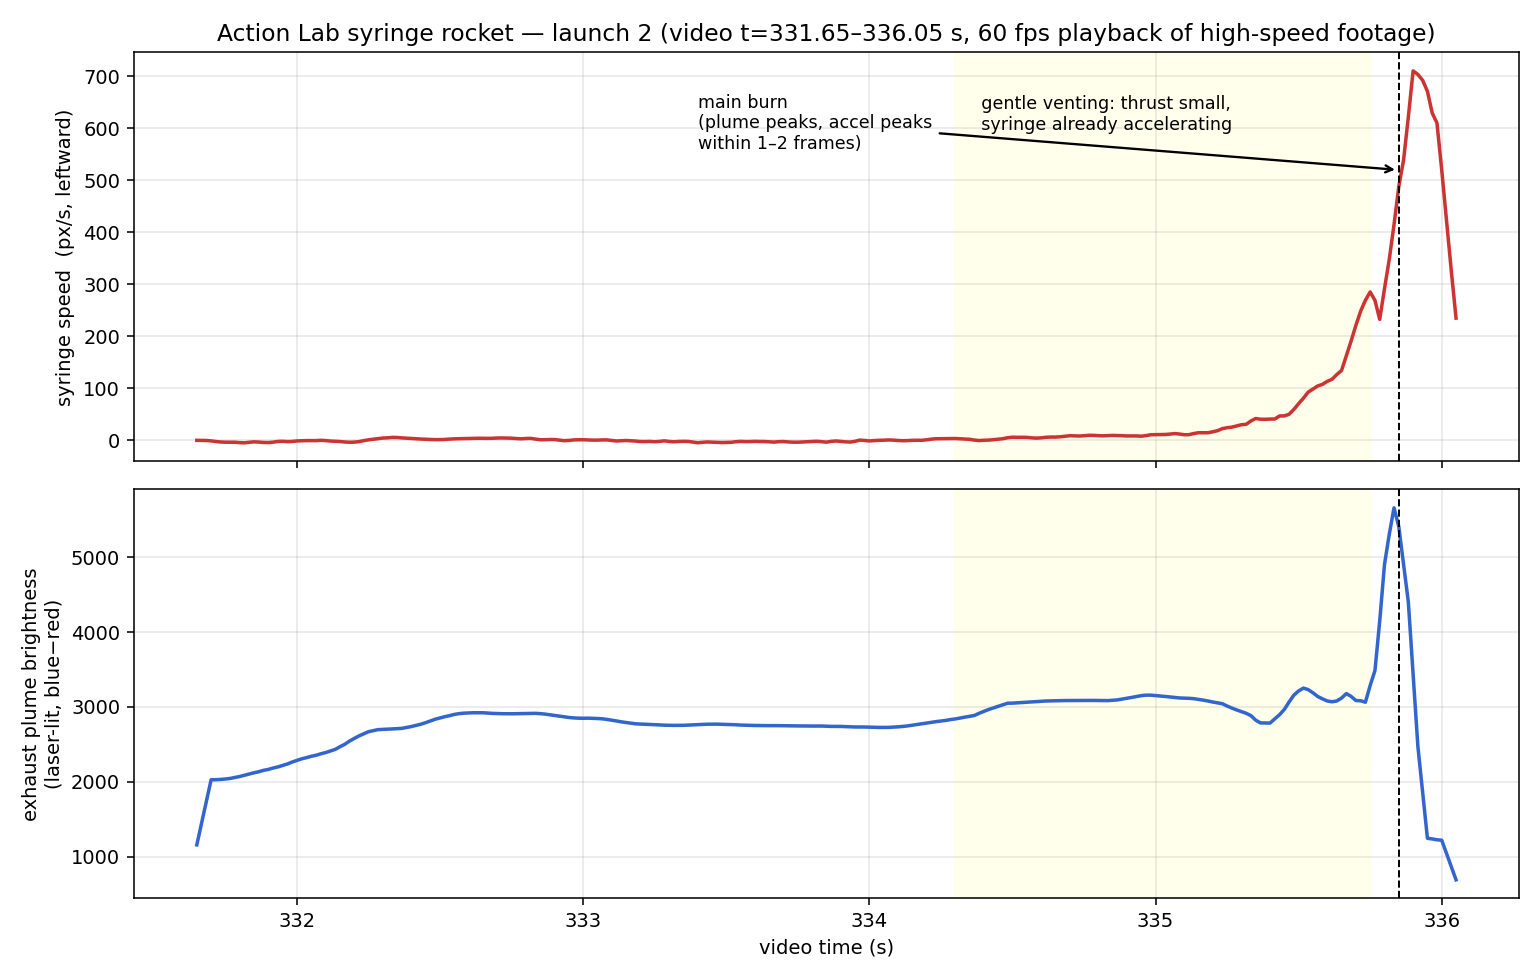
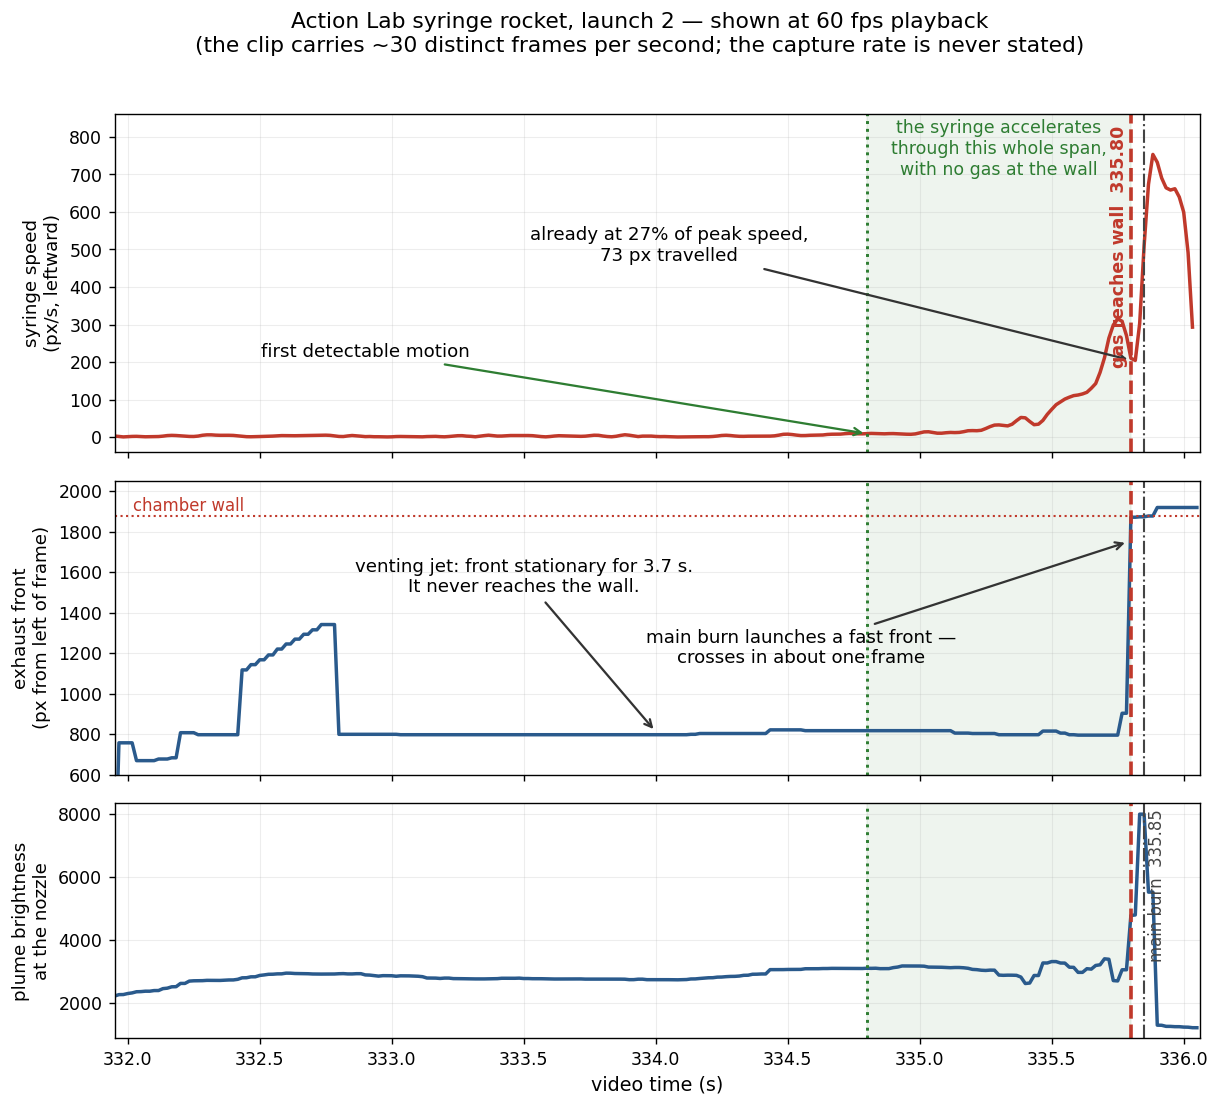
The plume does reach the wall — at 335.80 — and the ordering favours us
Operator spotted it: contact is plainly visible around 5:28. It is, and I
had missed it twice. The event is played twice in the video (once with the
'<0.02 atm' caption, once without); I analysed only the second pass, and
when front4k jumped 2,284 px in one frame I wrote it off as frame-edge
saturation instead of pulling the frames. It was the real arrival. The
wall is in shot the whole time.

Re-measured against a background-subtracted baseline. What the footage
actually shows:

  334.80  first detectable motion
  335.80  exhaust reaches the wall — syringe already at 27% of peak
          speed, 73 px travelled
  335.85  main burn, plume brightness peaks
  335.88  peak acceleration

This CONTRADICTS what the page argued. §4 claimed contact must precede
visible motion under either model, making the ordering uninformative. The
opposite is true here, and the reasoning failed because it treated the
exhaust as a coherent jet crossing at hundreds of m/s. It does not: the
venting jet's front is stationary at ~800 px for over three seconds and
never reaches the wall. Only the main burn drives a front across, in about
one frame. That was already implied by this page's own underexpanded-jet
physics and I did not notice the tension.

The page is stronger for it. The refutation is now direct and in one
continuous shot rather than resting on sub-pixel detection thresholds.

Also handles the coincidence that would otherwise look like support for
[…]

diff --git a/docs/action-lab-footage/index.html b/docs/action-lab-footage/index.html
@@ -102,8 +102,8 @@ em.term{font-style:normal;font-weight:600;color:var(--heading)}
 
 <section class="verdict" id="verdict">
   <p class="vhead"><span class="vtag ok">Observation conceded</span><span class="vtag fail">Inference not supported</span><br>What the frames show</p>
-  <p>Gas is visible in the chamber well before the syringe visibly moves. That is true, it is in the frames, and anybody can check it. It is also <em>forced</em>: the exhaust crosses the chamber in a small fraction of the burn, during which the syringe travels well under one 4K pixel, so no video of this experiment could show the syringe moving first &mdash; in a vacuum chamber or in deep space. <strong>That particular observation is a null</strong>, and treating it as evidence is reading a null as a signal.</p>
-  <p>The rest is not null, and the two models do come apart. Measured rather than eyeballed, the syringe is <em>already accelerating</em> about a second of playback before the main burn &mdash; so it is not waiting for anything to arrive &mdash; and its acceleration follows its own plume brightness rather than any arrival event. More decisively, the momentum a wall can actually return to it is <strong>0.05% to 3%</strong> of what leaves the nozzle, against the roughly 100% a wall-driven push would require. What the footage alone cannot do is separate standard physics from a <em>continuous-flow</em> rebound, which would give the same rising curve delayed by an interval no ordinary camera resolves. That distinction needs a force trace, not a video.</p>
+  <p>Gas is visible in the chamber well before the syringe visibly moves. That is true, it is in the frames, and anybody can check it. It is also <em>forced</em>: the exhaust crosses the chamber in a small fraction of the burn, during which the syringe travels well under one 4K pixel, so no video of this experiment could show the syringe moving first &mdash; in a vacuum chamber or in deep space. But that is not what this chamber shows. It is large enough that the venting jet dissipates about a third of the way across, so <strong>the exhaust does not reach the wall until 335.80&nbsp;s &mdash; by which time the syringe has been accelerating for about a second and is at 27% of its final speed.</strong></p>
+  <p>So the ordering runs the wrong way for the claim: motion first, contact second, in one continuous shot. The one thing that does follow contact &mdash; peak acceleration, 0.08&nbsp;s later &mdash; has the same cause as the contact itself, the main burn, whose exhaust crosses the chamber far faster than the vehicle it is pushing. And the momentum a wall could return in any case is <strong>0.05% to 3%</strong> of what leaves the nozzle, against the roughly 100% a wall-driven push would need.</p>
 </section>
 
 <h2>1 &middot; The video, and what the book takes from it</h2>
@@ -120,8 +120,8 @@ em.term{font-style:normal;font-weight:600;color:var(--heading)}
 <div class="note"><strong>The playback rate is 60&nbsp;fps; the launch clip is not.</strong> Every frame in this segment appears twice: the per-frame displacements alternate strictly between zero and a real step, and the independent 4K plume measurements repeat in adjacent pairs. So the clip carries about <strong>133 distinct frames, not 265</strong>, and the real-time factor is capture rate divided by 30, not 60. That conclusion does not depend on guessing the editor's workflow: whether the slow motion was conformed at 30&nbsp;fps and uploaded at 60, or conformed at 60 and stretched twofold in the edit, distinct frames arrive at 30 per second of playback either way. This matters: it doubles the inferred slow-motion factor and quadruples every displacement in &sect;4.</div>
 
 <figure>
-  <img src="assets/thrust-signature.png" alt="Two stacked line charts against video time from 331.6 to 336.1 seconds. The upper chart, syringe speed in pixels per second, is flat near zero until about 334.4, then rises smoothly and continuously, steepening through 335.5 to a peak of about 710 just after 335.85 before falling. The lower chart, exhaust plume brightness, rises early then sits on a broad plateau from 332.6 to 335.7 before spiking sharply at 335.85, at the same instant marked by a dashed line on both charts.">
-  <figcaption><b>The thrust signature.</b> Syringe speed (top) and exhaust plume brightness (bottom) against video time. The shaded band is the gentle-venting phase: thrust is small, but the syringe is <em>already accelerating</em> through it. The dashed line at 335.85&nbsp;s is the main burn, where plume brightness spikes. <span class="cred">Original figure, computed from per-frame tracking of the video under discussion. The speed trace here is seven-point smoothed and peaks near 710&nbsp;px/s; the 772&nbsp;px/s quoted in the text is the same data at three-point smoothing. Past about 335.72&nbsp;s the centroid is contaminated by the flash &mdash; see the caveat below the table.</span></figcaption>
+  <img src="assets/thrust-signature.png" alt="Three stacked charts against video time from 332.0 to 336.1 seconds. Top: syringe speed, flat near zero until about 334.8, then rising continuously to a peak near 770 just after 335.85. Middle: the exhaust front position, which sits flat at about 800 pixels for more than three seconds and then jumps abruptly to the chamber wall at 335.80. Bottom: plume brightness at the nozzle, flat until a sharp spike at 335.85. A red dashed line at 335.80 marks the moment the gas reaches the wall, and a shaded band shows the syringe accelerating for a full second before it.">
+  <figcaption><b>The thrust signature, with the wall.</b> Syringe speed (top), the exhaust front's distance across the frame (middle), and plume brightness at the nozzle (bottom). The red dashed line at <strong>335.80&nbsp;s</strong> is the moment the exhaust reaches the chamber wall; the shaded band is the interval over which the syringe accelerates <em>before</em> that happens. Note the middle panel: the venting jet's front is stationary for over three seconds and never gets near the wall &mdash; only the main burn launches a front that crosses. <span class="cred">Original figure, computed from per-frame tracking of the video under discussion. Front positions are background-subtracted against a pre-event frame and temporally median-filtered; the excursion around 332.5&nbsp;s is residual smoke from the previous run drifting through the laser sheet, not jet structure. Past about 335.72&nbsp;s the syringe centroid is contaminated by the flash &mdash; see the caveat below the table.</span></figcaption>
 </figure>
 
 <table class="cmp">
@@ -130,7 +130,8 @@ em.term{font-style:normal;font-weight:600;color:var(--heading)}
     <tr><td class="metric">331.65 &ndash; ~334.8</td><td>at the noise floor</td><td>low, rising</td><td>hanging still; slow venting already under way</td></tr>
     <tr><td class="metric">~334.8 &ndash; 335.25</td><td>emerging from noise</td><td>plateau</td><td><strong>first detectable sustained motion</strong></td></tr>
     <tr><td class="metric">335.25 &ndash; 335.72</td><td>24 &rarr; 280 px/s</td><td>plateau</td><td>steady jet; acceleration building; travel 134 4K px</td></tr>
-    <tr><td class="metric">335.85</td><td>&mdash;</td><td><strong>spike</strong></td><td><strong>main burn</strong></td></tr>
+    <tr><td class="metric"><strong>335.80</strong></td><td><strong>205 px/s</strong></td><td>rising</td><td><strong>exhaust reaches the chamber wall</strong> &mdash; syringe already at 27% of peak speed, 73&nbsp;px travelled</td></tr>
+    <tr><td class="metric">335.85</td><td>500 px/s</td><td><strong>spike</strong></td><td><strong>main burn</strong></td></tr>
     <tr><td class="metric">335.88</td><td>~772 px/s (peak)</td><td>collapsing</td><td>peak speed &mdash; but see caveat</td></tr>
   </tbody>
 </table>
@@ -147,12 +148,21 @@ em.term{font-style:normal;font-weight:600;color:var(--heading)}
   <figcaption><b>Launch 2, twenty frames at 60&nbsp;fps playback, brightened.</b> The syringe travels leftward; the exhaust jet extends to the right. Watch the jet rather than the syringe: through the middle of the sequence its visible front stays a roughly constant distance behind the nozzle. <span class="cred">Frames from <em>Rocket Launch In a Giant Vacuum Chamber</em> (The Action Lab, YouTube), reproduced in small part for the purpose of criticism and review.</span></figcaption>
 </figure>
 
-<p>One measurement undercuts the mental picture the argument depends on. On the 4K stream the visible plume front sits at a <strong>constant 723&ndash;758 pixels from the nozzle</strong> right through the window from 335.25&nbsp;s to 335.72&nbsp;s &mdash; which is the whole of the usable data, since the measurement does not exist before 335.25&nbsp;s and breaks down after 335.73&nbsp;s when the plume floods. Within that window it is a quasi-steady jet, not a front sweeping across the chamber and returning.</p>
-<p>That is not a curiosity of the contrast threshold; it is what the gas dynamics predicts. At 19&nbsp;mbar the mean free path is a few microns, so this is an <em>underexpanded jet exhausting into a background gas</em>, not a free expansion into vacuum. Such a jet sets up a quasi-steady shock structure and then dissipates into the background over a fixed penetration length &mdash; a steady jet of fixed visible extent, which is exactly what the measurement shows. So &ldquo;the cloud travels to the wall and comes back&rdquo; is not something the footage shows, and on this picture what reaches a distant wall first is a weak pressure disturbance in the residual gas rather than a coherent 400&nbsp;m/s cloud.</p>
+<h3>When the exhaust actually reaches the wall</h3>
+<p>The chamber's right-hand wall is in frame throughout, so the moment of contact can be measured rather than inferred &mdash; and it is the single most useful number in the clip. Tracking the exhaust front against a pre-event baseline gives a sharp answer:</p>
+<ul class="tl">
+  <li><span class="t">&mdash;</span> Through the whole venting phase the front is <strong>stationary at about 800&nbsp;px</strong>, roughly a third of the way to the wall. It sits there for over three seconds of playback and does not advance.</li>
+  <li><span class="t">&mdash;</span> At <strong>335.80&nbsp;s</strong> the front jumps to the wall in a single frame, and stays pinned against it. <strong>That is the contact event.</strong></li>
+  <li><span class="t">&mdash;</span> By then the syringe has been accelerating for about a second of playback, has travelled 73&nbsp;px, and is moving at <strong>27% of the peak speed</strong> it will reach.</li>
+</ul>
+<div class="killer"><strong>The syringe is measurably moving before any exhaust reaches the wall &mdash; not by a fraction of a pixel, but by seventy-odd pixels at a quarter of its final speed.</strong> This is in one continuous shot, with both events visible, and it is the most direct thing the footage has to say: a push that begins when gas strikes the wall cannot account for motion that is already well under way before the gas gets there.</div>
+<p>The stationary front is not an artefact of the contrast threshold; it is what the gas dynamics predicts. At 19&nbsp;mbar the mean free path is a few microns, so this is an <em>underexpanded jet exhausting into a background gas</em>, not a free expansion into vacuum. Such a jet sets up a quasi-steady shock structure and then dissipates into the background over a fixed penetration length &mdash; here about a third of the distance to the wall. The gentle venting never delivers its exhaust to the wall at all. Only the main burn, with far higher mass flow and exit speed, drives a front the whole way across, and it does so in about one frame.</p>
+<p>That also disposes of an apparent coincidence which would otherwise look like support for the book. Peak acceleration falls 0.08&nbsp;s of playback <em>after</em> contact, which is close enough to invite the reading that the wall caused it. It did not: <strong>both are consequences of the same main burn</strong>. The burn launches gas that crosses the chamber almost instantly, and it raises the thrust on the syringe over the following few frames. The exhaust arrives first because it is travelling some two orders of magnitude faster than the vehicle it is pushing &mdash; which is what momentum conservation requires.</p>
 <p>This cuts against us as well, and should be said: if the exhaust decelerates into the background, the effective speed of whatever arrives at the wall is <em>lower</em> than the jet's exit speed, which raises <em>f</em> and increases the displacement in &sect;4. The 150&nbsp;m/s sensitivity row below is there to bound precisely that, and even at that speed the figures stay small.</p>
 
-<h2>4 &middot; Why the gas must reach the wall first &mdash; under either model</h2>
-<p>Thrust is <em>&#7745;&middot;v<sub>e</sub></em>: mass flow times exhaust speed. A faint wisp of gas is a tiny mass flow and therefore a tiny force. The syringe responds to it <em>instantly</em> &mdash; but instantly to a <em>small</em> force, and a small force acting for a very short time produces a displacement far below anything a camera can register. The whole question is the ratio between two durations:</p>
+<h2>4 &middot; The chamber that is too big for the argument</h2>
+<div class="note"><strong>A prediction of ours that the footage falsified.</strong> An earlier version of this section argued that the exhaust would cross the chamber within a millisecond or so of ignition, so that contact would <em>necessarily</em> precede any visible motion &mdash; making the observed ordering uninformative. The measurement in &sect;3 shows the opposite ordering: the syringe moves first. The reasoning failed because it treated the exhaust as a coherent jet crossing at several hundred metres per second, when in this chamber the venting jet dissipates at about a third of the distance. It was also in tension with this page's own gas dynamics, and we did not notice. The corrected argument below is narrower and does not need rescuing.</div>
+<p>The arithmetic still matters, because it explains <em>why</em> the Action Lab's chamber can settle the question while a small tube cannot. Thrust is <em>&#7745;&middot;v<sub>e</sub></em>: mass flow times exhaust speed. A faint wisp of gas is a tiny mass flow and therefore a tiny force. The syringe responds <em>instantly</em> &mdash; but instantly to a <em>small</em> force, and a small force acting briefly produces a displacement far below what a camera can register. The governing ratio is between two durations:</p>
 <div class="eq">f &nbsp;=&nbsp; (time for the gas to cross to the wall) &divide; (duration of the thrust ramp) &nbsp;=&nbsp; (L / v<sub>gas</sub>) &divide; (T<sub>playback</sub> / S)</div>
 <p>In plain words, <em>f</em> is how far through the burn the gas has got when it first touches the wall: <em>f</em>&nbsp;=&nbsp;0.1 means the wall is hit one-tenth of the way in. <em>L</em> is the wall distance, <em>v<sub>gas</sub></em> the exhaust speed, <em>T</em><sub>playback</sub>&nbsp;=&nbsp;0.60&nbsp;s the measured playback duration of the ramp, and <em>S</em> the slow-motion factor &mdash; capture rate divided by 30, per &sect;3.</p>
 <p>The displacement then follows from a directly measured quantity: <strong>the syringe travels 134 pixels at 4K during that ramp</strong>. Under constant acceleration, displacement at wall contact is that travel times <em>f&nbsp;</em>&sup2;; under the rising thrust actually observed, times <em>f&nbsp;</em>&sup3;. Those powers are why the numbers come out so small &mdash; something starting slowly covers a hundredth of the distance in the first tenth of the time, and a thousandth if it is still building. Nothing else is needed.</p>
@@ -176,9 +186,9 @@ em.term{font-style:normal;font-weight:600;color:var(--heading)}
   <li><span class="t">&mdash;</span> <strong>Pushing the parameters far enough does not rescue the claim &mdash; it destroys it.</strong> Raise <em>f</em> towards 1 and the gas arrives at the wall only as the burn ends, meaning the syringe finished accelerating <em>before</em> the gas got there, which refutes wall-mediated thrust outright. At 960&nbsp;fps that crossover is a wall 7.5&nbsp;metres away. So the argument needs a small <em>f</em>, and small <em>f</em> is exactly the regime in which the syringe cannot have visibly moved. There is no setting of the unknowns that gives the claim what it needs.</li>
 </ul>
 
-<div class="killer"><strong>At any realistic combination the syringe has not visibly moved by the time the gas reaches the wall &mdash; and even at the extreme corner, at most ten.</strong> At a realistic middle &mdash; 960&nbsp;fps, a wall a third of a metre away &mdash; it has travelled a few hundredths of a 4K pixel, having received <strong>at most 4%</strong> of its total impulse &mdash; and about 0.2% on the rising ramp actually observed, since a burn that is still building delivers impulse as <em>f&nbsp;</em>&sup2; rather than <em>f</em>. Only by combining the fastest capture rate with the most distant wall <em>and</em> the slowest exhaust does the upper bound reach ten pixels, and the ramp model three. The ordering &ldquo;gas reaches wall, then syringe visibly moves&rdquo; is forced by a large speed ratio and a camera's detection threshold. It would look identical in deep space with no wall at all.</div>
+<div class="killer"><strong>This is the trap the p.&nbsp;80 rig walks into, and the reason the Action Lab's chamber escapes it.</strong> Put the wall close &mdash; a tube rather than a room &mdash; and the exhaust does arrive almost immediately, while the syringe has moved a small fraction of one 4K pixel. There the observed ordering really is forced under both models, and observing it tells you nothing. Make the chamber large enough that the jet dissipates before it crosses, and the ordering becomes informative &mdash; which is exactly what happened here, and it came out against the wall-driven reading.</div>
 
-<p>This is a statement about detection thresholds, not about causation, and it is worth being exact about what it establishes. It does <em>not</em> prove the wall plays no role. It establishes that <strong>the observation cannot distinguish the two models, because both predict it</strong>. Anyone &mdash; on either side &mdash; who treats the observed ordering as evidence is reading a null result as a signal.</p>
+<p>So the honest position on chamber size inverts the usual worry. The standard objection to a vacuum-chamber test is that the chamber is too <em>small</em> to be a real vacuum. The objection that matters for a <em>timing</em> test is the opposite: a chamber small enough for the exhaust to cross instantly makes the timing uninformative, whichever model is right. The Action Lab's chamber is big enough to avoid that, which is why its footage carries information that the book's own apparatus, as described at p.&nbsp;80, could not.</p>
 
 
 <h2>5 &middot; Where the rebound reading runs into trouble</h2>
@@ -217,9 +227,9 @@ em.term{font-style:normal;font-weight:600;color:var(--heading)}
 
 <h2>9 &middot; What this does and does not do to the book's claim</h2>
 <p>On scope: this page examines a video the book <em>cites</em>, not Miller and Kampf's own chamber experiment, which remains unpublished. Nothing here settles what their rig will show.</p>
-<p>What it settles is narrow, and worth stating exactly rather than at maximum volume. The p.&nbsp;20 question treats an observed delay as though it needed a special explanation. It does not: the delay is present, and it is what the physics the argument is aimed at predicts, at a magnitude that makes any other outcome impossible to film. <strong>The observation is a null result, and both models produce it.</strong></p>
+<p>What it settles is narrow, and worth stating exactly rather than at maximum volume. The p.&nbsp;20 question treats an observed delay as though it needed a special explanation. It does not, and in this chamber the footage says so directly: the syringe is already at a quarter of its final speed before the exhaust arrives at the wall. <strong>The ordering the argument needs is not the ordering the video contains.</strong></p>
 <p>The frames go further than that. Motion beginning during gentle venting and acceleration rising with the plume are what thrust-follows-mass-flow looks like, and they rule out the naive version of the claim &mdash; the vehicle sitting inert until a cloud completes its transit &mdash; because the syringe is demonstrably already moving.</p>
-<p>What actually decides it is not the footage at all but the momentum budget in &sect;5: a wall can return only 0.05% to 3% of what leaves the nozzle, and the claim needs essentially all of it. <strong>That rules out the wall as the <em>source</em> of the push</strong>, whatever the timing looks like. The residual concession is narrower than it first appears and worth stating precisely: the video's timing cannot detect a small rebound <em>contribution</em> riding on top of real thrust, because a continuous-flow return would give the same rising curve delayed by an unresolvable interval. But a small contribution is not the claim, and nobody disputes that near-wall recirculation exists &mdash; it is a known effect that test facilities are built to avoid. Measuring it, rather than inferring it, is test&nbsp;3.</p>
+<p>The footage is not the only thing deciding it, either. The momentum budget in &sect;5 is independent of all the timing: a wall can return only 0.05% to 3% of what leaves the nozzle, and the claim needs essentially all of it. <strong>That rules out the wall as the <em>source</em> of the push</strong>, whatever the timing looks like. The residual concession is narrower than it first appears and worth stating precisely: the video's timing cannot detect a small rebound <em>contribution</em> riding on top of real thrust, because a continuous-flow return would give the same rising curve delayed by an unresolvable interval. But a small contribution is not the claim, and nobody disputes that near-wall recirculation exists &mdash; it is a known effect that test facilities are built to avoid. Measuring it, rather than inferring it, is test&nbsp;3.</p>
 <div class="killer"><strong>He made an error of inference, not of honesty.</strong> The delay is genuinely visible, genuinely counter-intuitive, and reading causation into it is a natural mistake rather than a dishonest one &mdash; the whole point of &sect;4 is that the appearance is <em>compelling</em> and still uninformative. What the argument needed was a frame rate and a tracked centroid, which the video does not supply and which nobody had gone and measured. That is now done, and it is above, with everything it still cannot settle set out in &sect;6. If any of it is wrong, we would like to know which part.</div>
 
 <h2 id="sources">Sources &amp; further reading</h2>
